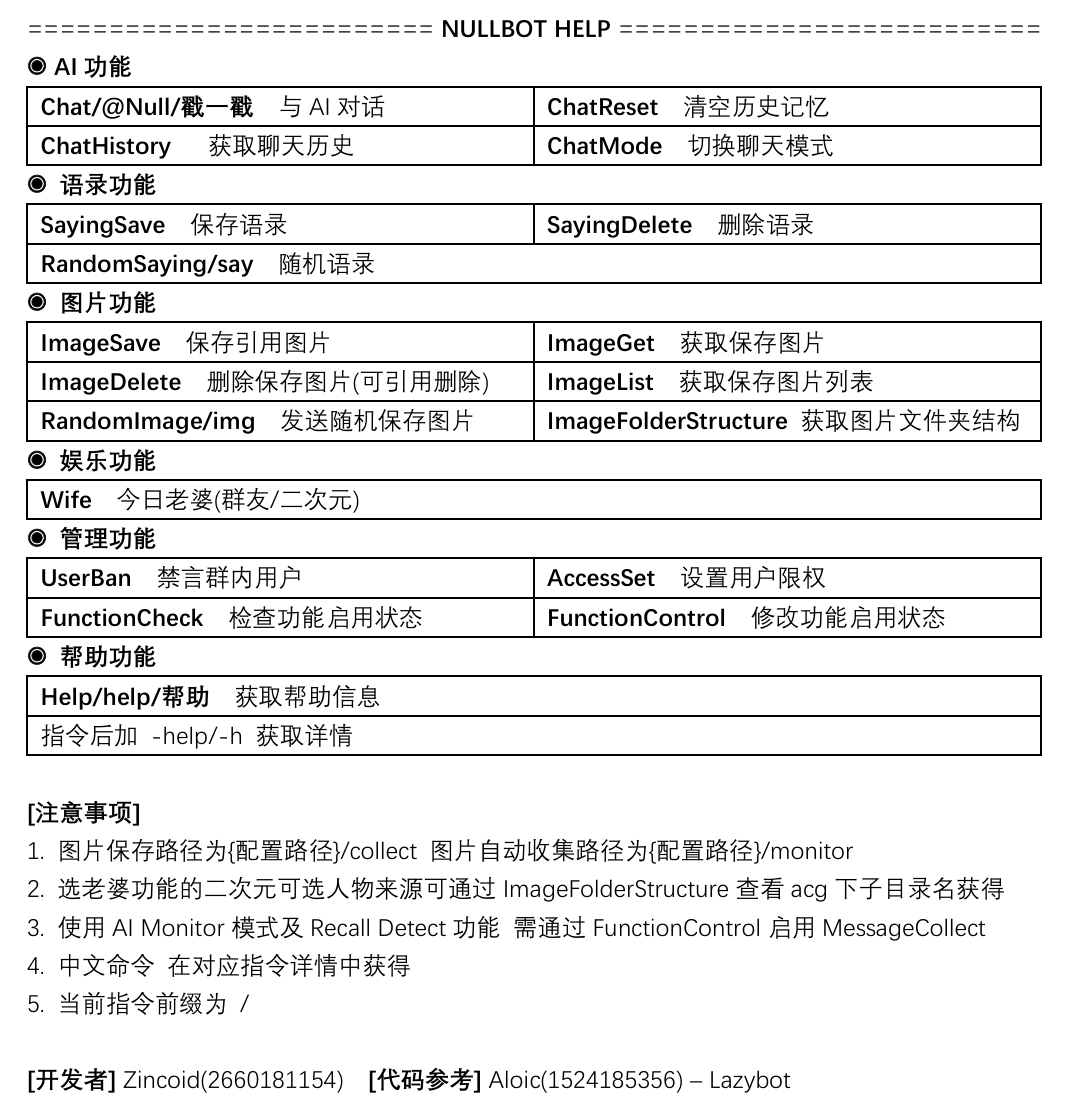
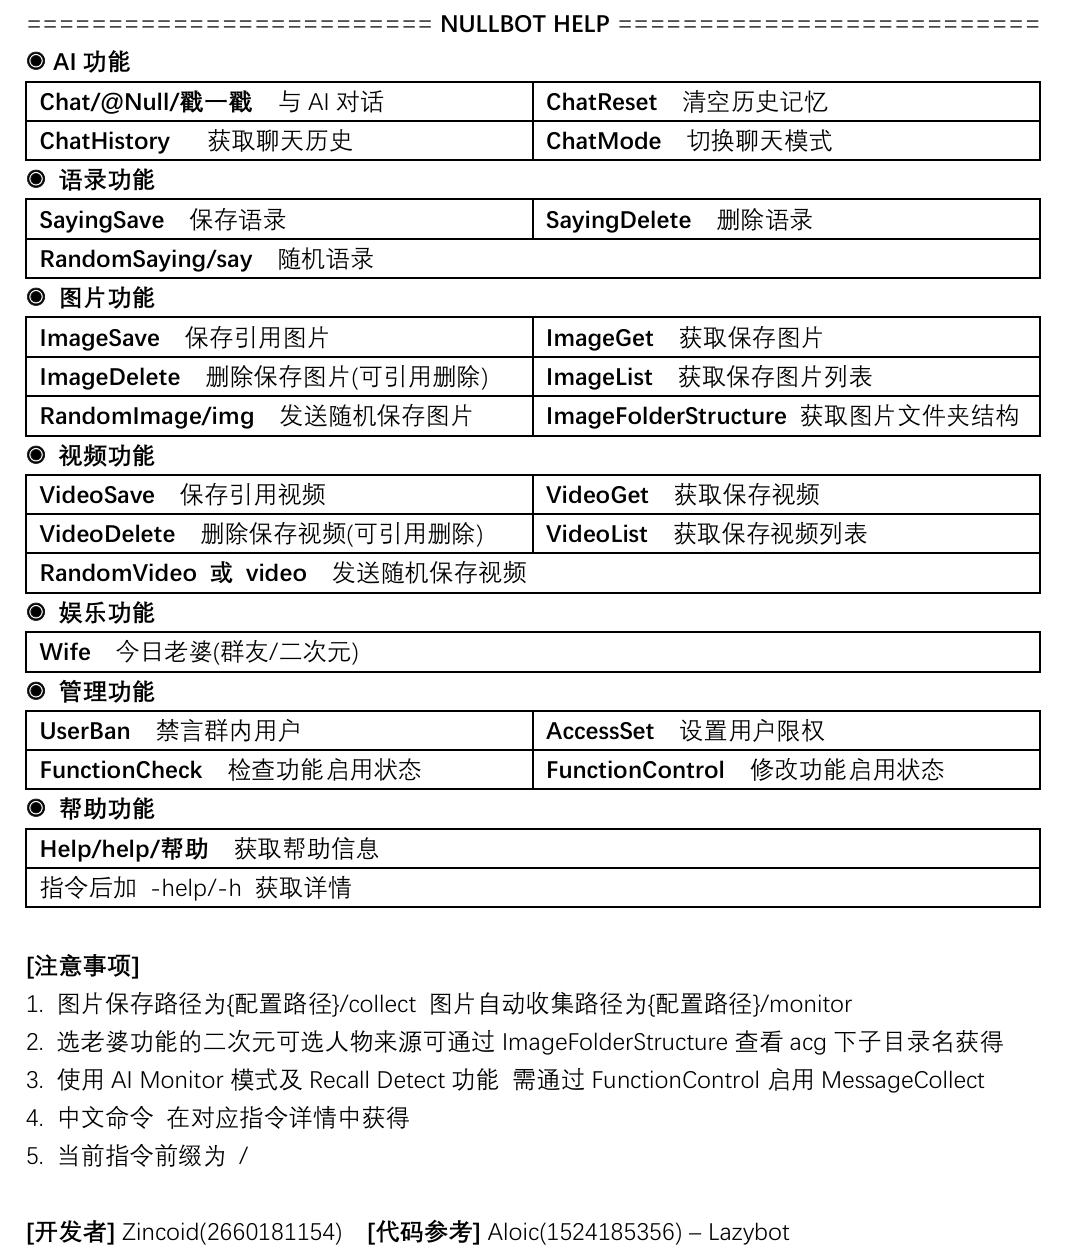
Changes

Changed region(s): [[0.0, 0.0, 0.9878, 1.0], [0.3396, 0.947, 0.7409, 1.0]]

diff --git a/src/main/java/org/bot/nullbot/command/reply/HelpCommand.java b/src/main/java/org/bot/nullbot/command/reply/HelpCommand.java
@@ -48,7 +48,11 @@ public class HelpCommand implements Command
             //         ImageFolderStructure  获取图片文件夹树状结构
             //
             //         ◉ [视频功能]
-            //         RandomVideo 或 video  发送随机视频
+            //         VideoSave  保存引用视频
+            //         VideoGet  获取保存视频
+            //         VideoDelete  删除保存视频(可引用删除)
+            //         VideoList  获取保存视频列表
+            //         RandomVideo 或 video  发送随机保存视频
             //
             //         ◉ [娱乐功能]
             //         Wife  今日老婆(群友/二次元)